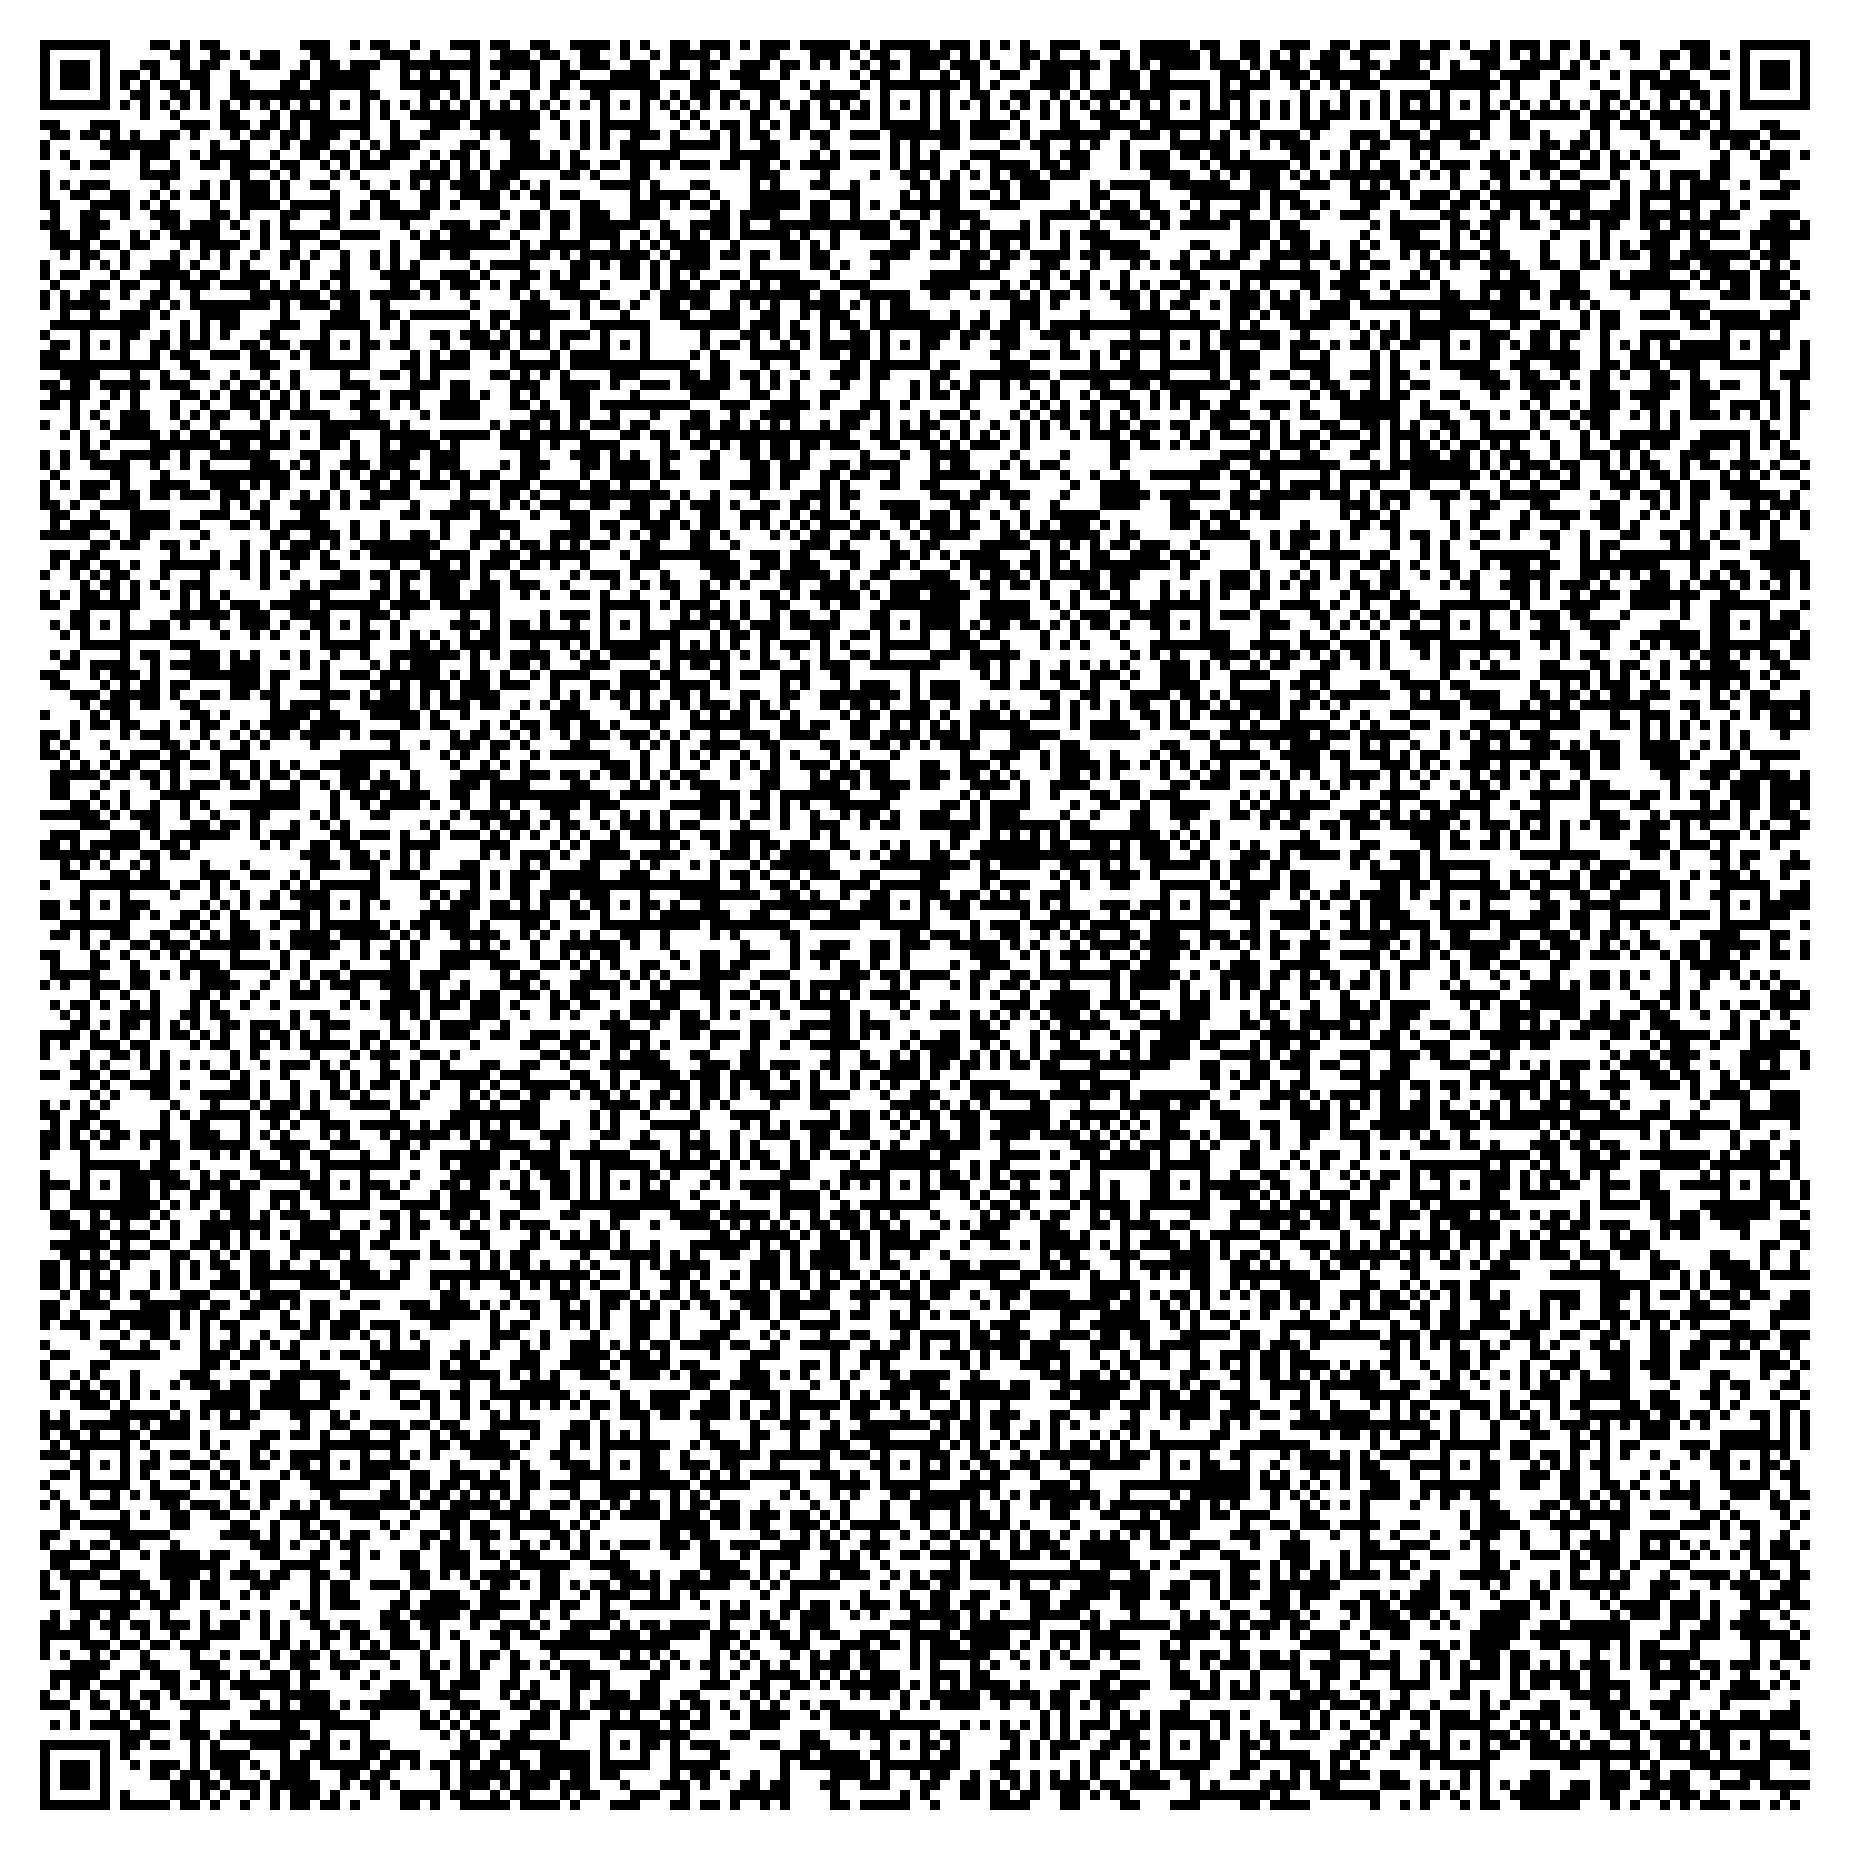
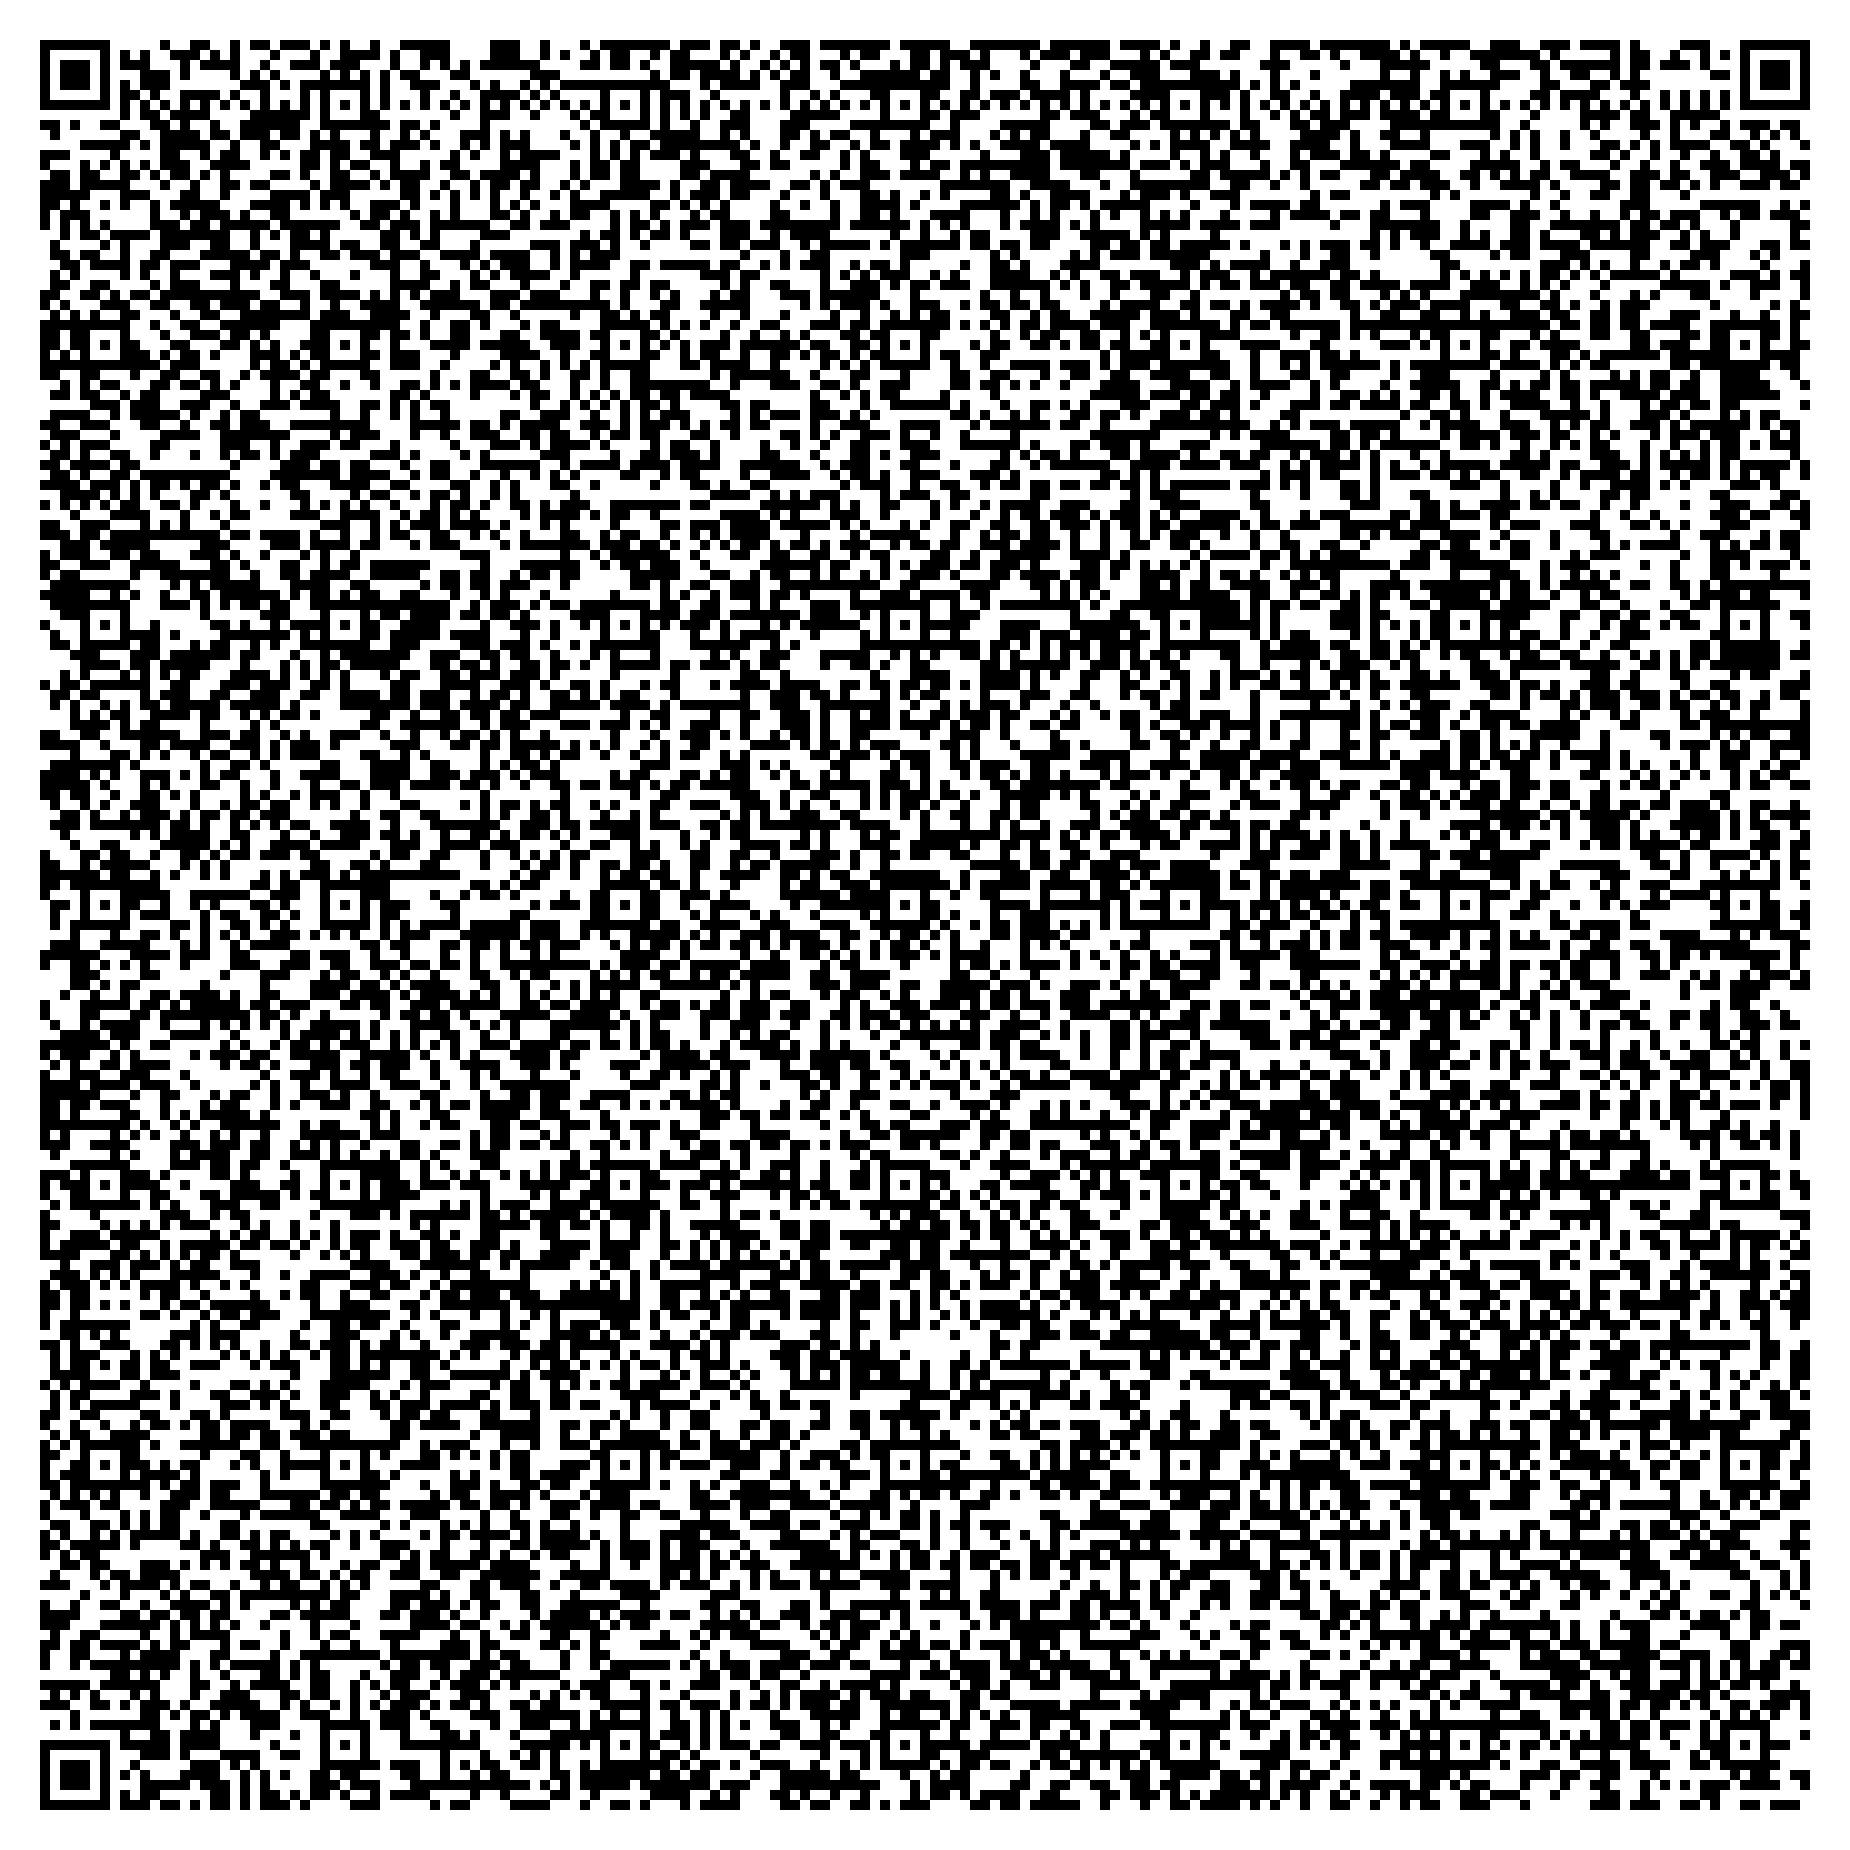
AGENT TITEL CHANGE

diff --git a/BuildAll.py b/BuildAll.py
@@ -5,7 +5,7 @@ Aufruf:
     python BuildAll.py 32|64      direkt waehlen
 Optionen:
     --variant both|full|min       welche QR-Variante(n) (Standard: both)
-    --before TEXT / --after TEXT  Text vor/nach dem Skript der minimalen Variante (Standard: siehe unten bzw. generator.py)
+    --before TEXT / --after TEXT  Text vor/nach dem Skript der minimalen Variante (Standard: MIN_TEXT_BEFORE/AFTER in generator.py)
     --skip-build                  vorhandene EXE verwenden (kein MSBuild)
     --no-run                      EXE nicht starten (nur bauen, QR erzeugen, QR zurücklesen)
 
@@ -14,7 +14,7 @@ Ablauf (jeder Schritt wird im Ergebnis am Ende aufgelistet):
                     32 Bit: PostLinkStripper + MiniPeLinker laufen als Post-Build-Schritt des Projekts.
     2. QR erzeugen  QR_Generator/generator.py -> QR_Generator/QR_<bits>bit/
     3. QR einlesen  PNG wird mit pyzbar gelesen und mit der .ps1 verglichen
-    4. EXE testen   das Skript aus dem QR-Code wird wirklich ausgefuehrt: Fenster "Mandelbrot set" muss erscheinen,
+    4. EXE testen   das Skript aus dem QR-Code wird wirklich ausgefuehrt: Fenster "Mandelbrot..." muss erscheinen,
                     die gestartete Datei muss die gebaute EXE sein (SHA-256), im Fenster muss etwas gezeichnet werden.
                     Danach wird das Fenster geschlossen (WM_CLOSE) und aufgeraeumt (entpackte Dateien in %TEMP%).
 Voraussetzungen: Windows, Visual Studio (MSBuild + MASM), Python mit  pip install qrcode pillow pyzbar zopfli
@@ -41,17 +41,22 @@ TARGETS = {
         project=r"SmallASM\SmallASM32.vcxproj", platform="Win32",
         raw_exe=r"SmallASM\Release\SmallASM32.exe",       # Linker-Ausgabe, wird vom Post-Build verkleinert
         exe=r"SmallASM\Release\SmallASM32.min.exe",       # Ergebnis, kommt in den QR-Code
-        after="Mouse wheel = zoom. Close the window to quit. Have fun!"),
+        title_checks=[]),
     "64": dict(
         project=r"SmallASM\SmallASM64.vcxproj", platform="x64",
         raw_exe=None,
         exe=r"SmallASM\x64\Release\SmallASM64.exe",
-        after="Mouse wheel = zoom, keys 1-5 = iterations, 6-9 = pixel size. Close the window to quit."),
+        # (Taste, erwartetes Ende des Fenstertitels): Tasten werden per WM_KEYDOWN gesendet, None = Titel direkt nach dem Start.
+        # Taste '5' (100000 Iterationen) wird nicht getestet: das Zeichnen wuerde minutenlang dauern.
+        title_checks=[(None, "Pixelsize: 4 | Key (1-5) Iterationen: 10"), ("3", "Pixelsize: 4 | Key (1-5) Iterationen: 1000"),
+                      ("9", "Pixelsize: 8 | Key (1-5) Iterationen: 1000"), ("7", "Pixelsize: 2 | Key (1-5) Iterationen: 1000"),
+                      ("1", "Pixelsize: 2 | Key (1-5) Iterationen: 10"), ("8", "Pixelsize: 4 | Key (1-5) Iterationen: 10")]),
 }
-WINDOW_TITLE = "Mandelbrot set"
+WINDOW_TITLE_PREFIX = "Mandelbrot"   # 32 Bit: "Mandelbrot set", 64 Bit: "Mandelbrotmenge | ..." (der Titel zeigt die Einstellungen)
 WINDOW_TIMEOUT = 15      # Sekunden, bis das Fenster erscheinen muss
 DRAW_TIMEOUT = 15        # Sekunden, bis im Fenster gezeichnet sein muss
-CLOSE_TIMEOUT = 10       # Sekunden, bis die EXE nach WM_CLOSE beendet sein muss
+TITLE_TIMEOUT = 10       # Sekunden, bis sich der Titel nach einer Taste geaendert haben muss
+CLOSE_TIMEOUT = 10      # Sekunden, bis die EXE nach WM_CLOSE beendet sein muss
 
 
 # ---------------------------------- Ausgabe --------------------------------------
@@ -167,7 +172,7 @@ if os.name == "nt":
     kernel32.CloseHandle.argtypes = [wt.HANDLE]
 
 PROCESS_QUERY_LIMITED_INFORMATION, SYNCHRONIZE, PROCESS_TERMINATE = 0x1000, 0x100000, 0x1
-WM_CLOSE = 0x0010
+WM_CLOSE, WM_KEYDOWN = 0x0010, 0x0100
 
 
 def process_image(pid):
@@ -181,15 +186,19 @@ def process_image(pid):
         kernel32.CloseHandle(h)
 
 
+def window_title(hwnd):
+    buf = ctypes.create_unicode_buffer(256)
+    user32.GetWindowTextW(hwnd, buf, 256)  # other process: reads the caption directly, does not wait for its message loop
+    return buf.value
+
+
 def find_window(exe_path):
-    """(hwnd, pid) of the visible window WINDOW_TITLE that belongs to exe_path, else None."""
+    """(hwnd, pid) of the visible window titled WINDOW_TITLE_PREFIX... that belongs to exe_path, else None."""
     found = []
 
     @WNDENUMPROC
     def callback(hwnd, _):
-        buf = ctypes.create_unicode_buffer(256)
-        user32.GetWindowTextW(hwnd, buf, 256)
-        if buf.value == WINDOW_TITLE and user32.IsWindowVisible(hwnd):
+        if window_title(hwnd).startswith(WINDOW_TITLE_PREFIX) and user32.IsWindowVisible(hwnd):
             pid = wt.DWORD()
             user32.GetWindowThreadProcessId(hwnd, ctypes.byref(pid))
             image = process_image(pid.value)
@@ -232,7 +241,7 @@ def remove_extracted(extract_path):
     return not os.path.exists(extract_path)
 
 
-def run_script(r, built_exe, report):
+def run_script(r, built_exe, report, title_checks):
     """Fuehrt das Skript aus dem QR-Code aus und prueft, ob die EXE korrekt entpackt, startet, zeichnet und sich schliessen laesst."""
     label = f"[{r['variant']}]"
     extract = r["extract_path"]
@@ -254,9 +263,9 @@ def run_script(r, built_exe, report):
             err = ""
             if ps.poll() is not None:
                 err = " PowerShell: " + (ps.stderr.read() or ps.stdout.read()).strip()[:300]
-            return report.add(False, f"{label} Start", f"kein Fenster '{WINDOW_TITLE}' innerhalb {WINDOW_TIMEOUT} s.{err}")
+            return report.add(False, f"{label} Start", f"kein Fenster '{WINDOW_TITLE_PREFIX}...' innerhalb {WINDOW_TIMEOUT} s.{err}")
         hwnd, pid = hwnd_pid
-        report.add(True, f"{label} Start", f"Skript entpackt und startet die EXE, Fenster '{WINDOW_TITLE}' (PID {pid})")
+        report.add(True, f"{label} Start", f"Skript entpackt und startet die EXE, Fenster '{window_title(hwnd)}' (PID {pid})")
 
         same = sha256(extract) == sha256(built_exe)
         report.add(same, f"{label} Entpackte EXE", "identisch mit der gebauten EXE (SHA-256)" if same
@@ -269,6 +278,16 @@ def run_script(r, built_exe, report):
                 time.sleep(0.5)
         report.add(drawn, f"{label} Zeichnen", "Fraktal wird im Fenster angezeigt" if drawn
                    else f"Fenster blieb {DRAW_TIMEOUT} s lang einfarbig (verdeckt? nicht gezeichnet?)")
+
+        for key, expected in title_checks:
+            if key:
+                user32.PostMessageW(hwnd, WM_KEYDOWN, ord(key), 0)
+            deadline = time.time() + TITLE_TIMEOUT
+            while time.time() < deadline and not window_title(hwnd).endswith(expected):
+                time.sleep(0.2)
+            title = window_title(hwnd)
+            report.add(title.endswith(expected), f"{label} Titel" + (f" (Taste '{key}')" if key else " (Start)"),
+                       f"'{title}'" if title.endswith(expected) else f"'{title}' endet nicht auf '{expected}'")
 
         handle = kernel32.OpenProcess(SYNCHRONIZE | PROCESS_TERMINATE, False, pid)
         user32.PostMessageW(hwnd, WM_CLOSE, 0, 0)
@@ -339,8 +358,7 @@ def main():
     results = []
     if not report.failed:
         step("2. QR-Codes erzeugen")
-        results = generator.generate(built_exe, args.variant, args.before,
-                                     cfg["after"] if args.after is None else args.after,
+        results = generator.generate(built_exe, args.variant, args.before, args.after,
                                      out_dir=os.path.join(QR_DIR, f"QR_{bits}bit"), log=lambda m: print("   " + m, flush=True))
         for r in results:
             if r["fits"]:
@@ -358,7 +376,7 @@ def main():
             step("4. EXE aus dem QR-Skript starten und pruefen")
             for r in results:
                 if r["fits"] and r.get("read_ok"):
-                    run_script(r, built_exe, report)
+                    run_script(r, built_exe, report, cfg["title_checks"])
 
     # ------------------------------- Ergebnis -------------------------------
     print("\n" + "=" * 70)

diff --git a/QR_Generator/generator.py b/QR_Generator/generator.py
@@ -33,8 +33,8 @@ VARIANT = "both"
 # Wird als PowerShell-Kommentar eingefuegt (jede Zeile bekommt ein '#'). Nur ASCII verwenden, jedes Byte zaehlt:
 # der freie Platz im QR-Code wird nach dem Erzeugen ausgegeben. Leer lassen ("") = kein Text.
 # Kommandozeile: --before / --after
-MIN_TEXT_BEFORE = "Mandelbrot Set: copy ALL of this text, paste it into Windows PowerShell, press Enter."
-MIN_TEXT_AFTER = "Mouse wheel = zoom. Close the window to quit. Have fun!"
+MIN_TEXT_BEFORE = "Copy ALL, paste into PowerShell, press Enter."
+MIN_TEXT_AFTER = "Mouse wheel = zoom."
 
 # --- Volle Variante: Anleitung vor und Abschlusszeile nach dem Skript ---------------------------------
 FULL_TEXT_BEFORE = (

diff --git a/.github/QR-128BIT-AGENT-NOTES.md b/.github/QR-128BIT-AGENT-NOTES.md
@@ -111,6 +111,8 @@ Alle Änderungen: Screenshots pixelgleich zur Original-EXE.
 
 18. **`BuildAll.py` / `BuildAll.cmd` (Root)** + `BUILDALL-ANLEITUNG.md`: ein Aufruf (`python BuildAll.py 32|64`, sonst Abfrage) baut per MSBuild (32 Bit: Post-Build Stripper + MiniPeLinker → `SmallASM32.min.exe`; 64 Bit: Linker-Optionen), erzeugt die QR-Codes nach `QR_Generator/QR_<bits>bit/`, liest sie mit pyzbar zurück, führt die `.ps1` aus dem QR-Text wirklich aus und prüft Fenster, SHA-256 der entpackten EXE, Zeichnen (Screenshot-Farbzahl), WM_CLOSE und räumt `%TEMP%` auf. Läuft rein in Python/ctypes (kein PowerShell-Start nötig). `generator.py` aufgeräumt: Einstellungen oben (`VARIANT`, `MIN_TEXT_BEFORE/AFTER`, `FULL_TEXT_*`), argparse (`--variant`, `--before`, `--after`, `--out-dir`), importierbar (`generate()`). Min-Variante nutzt jetzt `$env:temp`. Gemessen: 32 Bit voll 2769 B, min 2482 B; 64 Bit min 2869 B (84 B Puffer mit Hilfetext), voll 3125 B (zu groß). Alles `ALLES OK`.
 
+19. **Fenstertitel zeigt Einstellungen** (`main64.asm`, `wndProc_keydown_update`): Titel-Puffer in `.data` (`c_window_title` + `a_title_pixelSize` + `a_title_iterations`, initial `...Pixelsize: 4 | ...Iterationen: 10` = Startwerte, wird als `lpWindowName` genutzt, also kein Aufruf beim Start). Nach jeder gültigen Taste: Pixelgröße als eine Ziffer eintragen, Iterationen per `div 10` + Stack in Ziffern wandeln und hinten an den Titel schreiben (Zahl steht absichtlich am **Ende**, damit kein Text verschoben werden muss), dann `DefWindowProcA(hwnd, WM_SETTEXT=0Ch, 0, titel)` (kein neuer Import, `rcx` ist noch die hwnd). Kosten gezippt: +91 B nur Iterationen, danach mit Pixelsize ca. +126 B gegenüber vorher (Deflate 1872 → ~1998 B). Die Hilfetexte im QR-Skript wurden dafür gekürzt (`generator.py`: `MIN_TEXT_BEFORE/AFTER`). Der Text steht jetzt nur noch in `generator.py` (`BuildAll.py` hat keinen eigenen `after`-Text mehr). `BuildAll` prüft den Titel per `WM_KEYDOWN` (`title_checks`) und sucht das Fenster nach dem Titelanfang `Mandelbrot`. Pixelgleich zur Original-EXE (`ExeSmokeTester` OK). Ergebnis 64 Bit minimal: **2930 / 2953 B (Puffer 23)**; die volle Variante ist 340 B zu groß. 32 Bit unverändert (voll 2765, min ~2430).
+
 ## 9. Nächste Schritte (Backlog, grob nach Nutzen)
 
 Nutzen gezippt geschätzt, alles mit `ExeSmokeTester` gegen die Referenz prüfen.

diff --git a/BUILDALL-ANLEITUNG.md b/BUILDALL-ANLEITUNG.md
@@ -33,6 +33,10 @@ Exit-Code `0` = alles OK, `1` = mindestens ein Fehler (steht mit ❌ in der List
 
 ## Texte und Varianten anpassen
 
-In `QR_Generator/generator.py` stehen oben unter **EINSTELLUNGEN** alle Texte (`MIN_TEXT_BEFORE`, `MIN_TEXT_AFTER`, `FULL_TEXT_BEFORE`, `FULL_TEXT_AFTER`) und die Standard-Variante (`VARIANT`). Die Anzeige nach dem Erzeugen nennt den freien Platz im QR-Code. In `BuildAll.py` steht der `after`-Text je Version im Block `TARGETS`.
+Alle Texte stehen **nur** in `QR_Generator/generator.py` oben unter **EINSTELLUNGEN**: `MIN_TEXT_BEFORE`/`MIN_TEXT_AFTER` (Minimalvariante), `FULL_TEXT_BEFORE`/`FULL_TEXT_AFTER` (volle Variante) und die Standard-Variante `VARIANT`. `BuildAll` verwendet sie unverändert (für 32 und 64 Bit gleich), außer du gibst `--before`/`--after` an. Nach dem Erzeugen steht der freie Platz im QR-Code in der Ausgabe; die 64-Bit-Minimalvariante hat nur noch ca. 20 Bytes Reserve, längere Texte passen dort nicht mehr.
+
+## Fenstertitel der 64-Bit-Version
+
+Der Titel zeigt die Bedienung und die aktuellen Werte: `Mandelbrotmenge | Key (6-9) Pixelsize: 4 | Key (1-5) Iterationen: 10`. Er ändert sich bei jedem Tastendruck. `BuildAll` prüft das für 64 Bit mit (Tasten werden an das Fenster gesendet, Liste `title_checks` in `BuildAll.py`). Hinweis: Taste 9 = Pixelsize 8, die Stufe 16 ist über Tasten nicht erreichbar.
 
 Was der Einzeiler (`QR_min`) macht: entpackt per `DeflateStream` direkt nach `%TEMP%\M.exe` und startet sie. Es entsteht keine andere Datei; die EXE bleibt in `%TEMP%` liegen, weil sie noch läuft. Die volle Variante legt `z.zip` in `%TEMP%\M_105HDGDL69\` an, entpackt, löscht die Zip wieder und startet die EXE.
